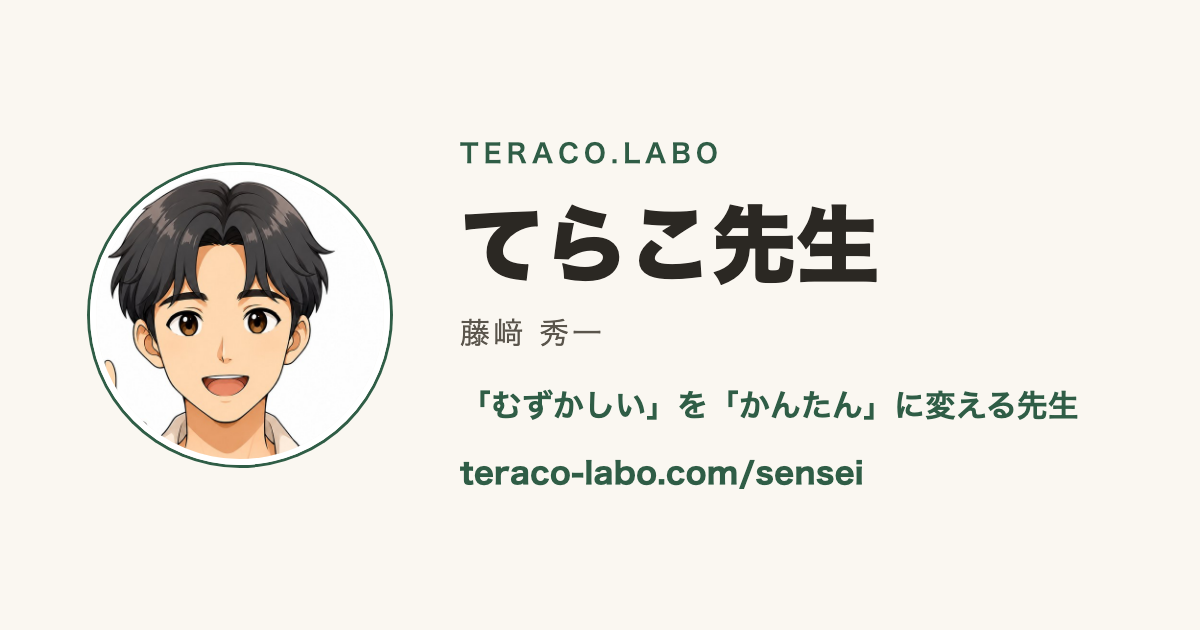
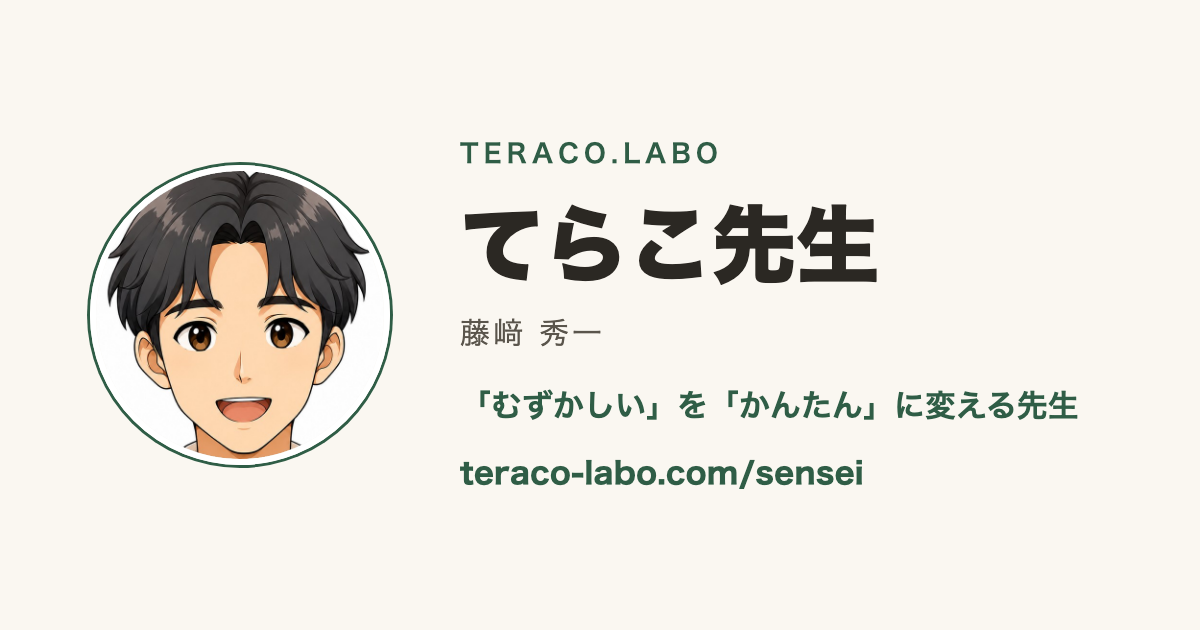
QR を黒一色・中にアイコンなしに。顔は指なしで中央に切り直し、講座スライドと名刺の裏にも顔を置く
藤崎さん（2026-10-06）「QRは黒でいい。QRの中にアイコンは入れないルールで。顔だけを中心に、指は入れない」。

Changed region(s): [[0.0617, 0.2714, 0.3083, 0.754]]

diff --git a/tools/qr_cards.html b/tools/qr_cards.html
@@ -22,6 +22,7 @@
   /* 講座のスライド 1920x1080 */
   #class{width:1920px;height:1080px;align-items:center;justify-content:center;gap:110px;}
   #class img.qr{width:760px;height:760px;background:#fff;border-radius:28px;box-shadow:0 10px 40px rgba(0,0,0,.08);}
+  #class .face{width:150px;height:150px;margin-bottom:26px;}
   #class h2{font-size:64px;font-weight:900;line-height:1.35;}
   #class .scan{font-size:40px;margin-top:40px;line-height:1.6;}
   #class .url{font-size:58px;margin-top:40px;}
@@ -39,6 +40,7 @@
   /* 名刺の裏 91x55mm（300dpi で 1075x650）*/
   #meishi{width:1075px;height:650px;background:#fff;align-items:center;padding:0 60px;gap:44px;}
   #meishi img.qr{width:420px;height:420px;flex:0 0 auto;}
+  #meishi .face{width:96px;height:96px;border-width:4px;box-shadow:0 0 0 2px #2F5D46;margin-bottom:14px;}
   #meishi .lead{font-size:34px;font-weight:800;line-height:1.5;}
   #meishi .scan{font-size:25px;margin-top:20px;line-height:1.6;}
   #meishi .url{font-size:31px;margin-top:22px;}
@@ -58,6 +60,7 @@
 <section class="c" id="class">
   <img class="qr" src="../sensei/qr/qr-class.png">
   <div>
+    <img class="face" src="../sensei/img/face.jpg">
     <h2>てらこ先生の<br>ページはこちら</h2>
     <div class="scan">スマホのカメラを<br>QRコードにかざしてください</div>
     <div class="or">読み取れないときは、この文字を入力</div>
@@ -77,6 +80,7 @@
 <section class="c" id="meishi">
   <img class="qr" src="../sensei/qr/qr-card.png">
   <div>
+    <img class="face" src="../sensei/img/face.jpg">
     <div class="lead">講座・番組・SNSは<br>このページから</div>
     <div class="scan">スマホのカメラを<br>かざしてください</div>
     <div class="url">teraco-labo.com/sensei</div>

diff --git a/tools/make_qr.py b/tools/make_qr.py
@@ -4,7 +4,7 @@
 
 2026-10-06 藤崎さんの決定：
 - URL は teraco-labo.com/sensei（講座で口で言える短さ）
-- QR は深緑＋真ん中にてらこ先生の顔
+- QR は黒一色。**QR の中にアイコンや顔は入れない**（2026-10-06 藤崎さんのルール。顔はカードの別の場所に置く）
 - 使い道ごとに QR を分けて、どこから来た人が多いかを数える（行き先は同じページ）
   名刺＝card、講座＝class、SNS＝sns（Google アナリティクスの「参照元」に出る）
 
@@ -20,7 +20,6 @@ from PIL import Image, ImageDraw
 
 ROOT = Path(__file__).resolve().parent.parent
 OUT = ROOT / "sensei" / "qr"
-FACE = Path(__file__).resolve().parent / "face_qr.png"
 
 BASE = "https://teraco-labo.com/sensei/"
 VARIANTS = {
@@ -29,7 +28,7 @@ VARIANTS = {
     "sns": "SNS用",
     "plain": "そのほか（数えない）",
 }
-GREEN = (47, 93, 70)      # #2F5D46 深緑
+BLACK = (0, 0, 0)
 WHITE = (255, 255, 255)
 
 
@@ -38,8 +37,8 @@ def url_for(key: str) -> str:
 
 
 def draw_qr(data: str, size: int = 2400) -> Image.Image:
-    """深緑の QR。真ん中に白い丸と顔（誤り訂正 H なので面積の約30%まで隠せる。顔はその半分以下）。"""
-    qr = segno.make(data, error="h", boost_error=False)
+    """黒一色の QR（周りに4マスの余白）。中には何も重ねない。"""
+    qr = segno.make(data, error="m", boost_error=False)
     matrix = [list(r) for r in qr.matrix]
     n = len(matrix)
     quiet = 4
@@ -51,18 +50,8 @@ def draw_qr(data: str, size: int = 2400) -> Image.Image:
         for x, v in enumerate(row):
             if v:
                 x0, y0 = (x + quiet) * cell, (y + quiet) * cell
-                d.rectangle([x0, y0, x0 + cell - 1, y0 + cell - 1], fill=GREEN)
-    # 真ん中の顔：QR 一辺の 24%（面積で約 4.5%）
-    fd = int(n * cell * 0.24)
-    ring = int(cell * 0.9)
-    cx = cy = full // 2
-    d.ellipse([cx - fd // 2 - ring, cy - fd // 2 - ring, cx + fd // 2 + ring, cy + fd // 2 + ring], fill=WHITE)
-    face = Image.open(FACE).convert("RGB").resize((fd, fd), Image.LANCZOS)
-    mask = Image.new("L", (fd, fd), 0)
-    ImageDraw.Draw(mask).ellipse([0, 0, fd - 1, fd - 1], fill=255)
-    img.paste(face, (cx - fd // 2, cy - fd // 2), mask)
-    d.ellipse([cx - fd // 2, cy - fd // 2, cx + fd // 2, cy + fd // 2], outline=GREEN, width=max(2, cell // 3))
-    return img.resize((size, size), Image.LANCZOS)
+                d.rectangle([x0, y0, x0 + cell - 1, y0 + cell - 1], fill=BLACK)
+    return img.resize((size, size), Image.NEAREST)
 
 
 def check(img: Image.Image, expect: str) -> list:
@@ -85,7 +74,7 @@ def main():
         path = OUT / f"qr-{key}.png"
         img.save(path, optimize=True)
         res = check(img, data)
-        qr = segno.make(data, error="h", boost_error=False)
+        qr = segno.make(data, error="m", boost_error=False)
         report.append((key, label, data, qr.designator, res))
         ok_all = all(ok for _, ok in res)
         print(f"{'OK ' if ok_all else 'NG '} {label:<14} {qr.designator:<4} {data}")
